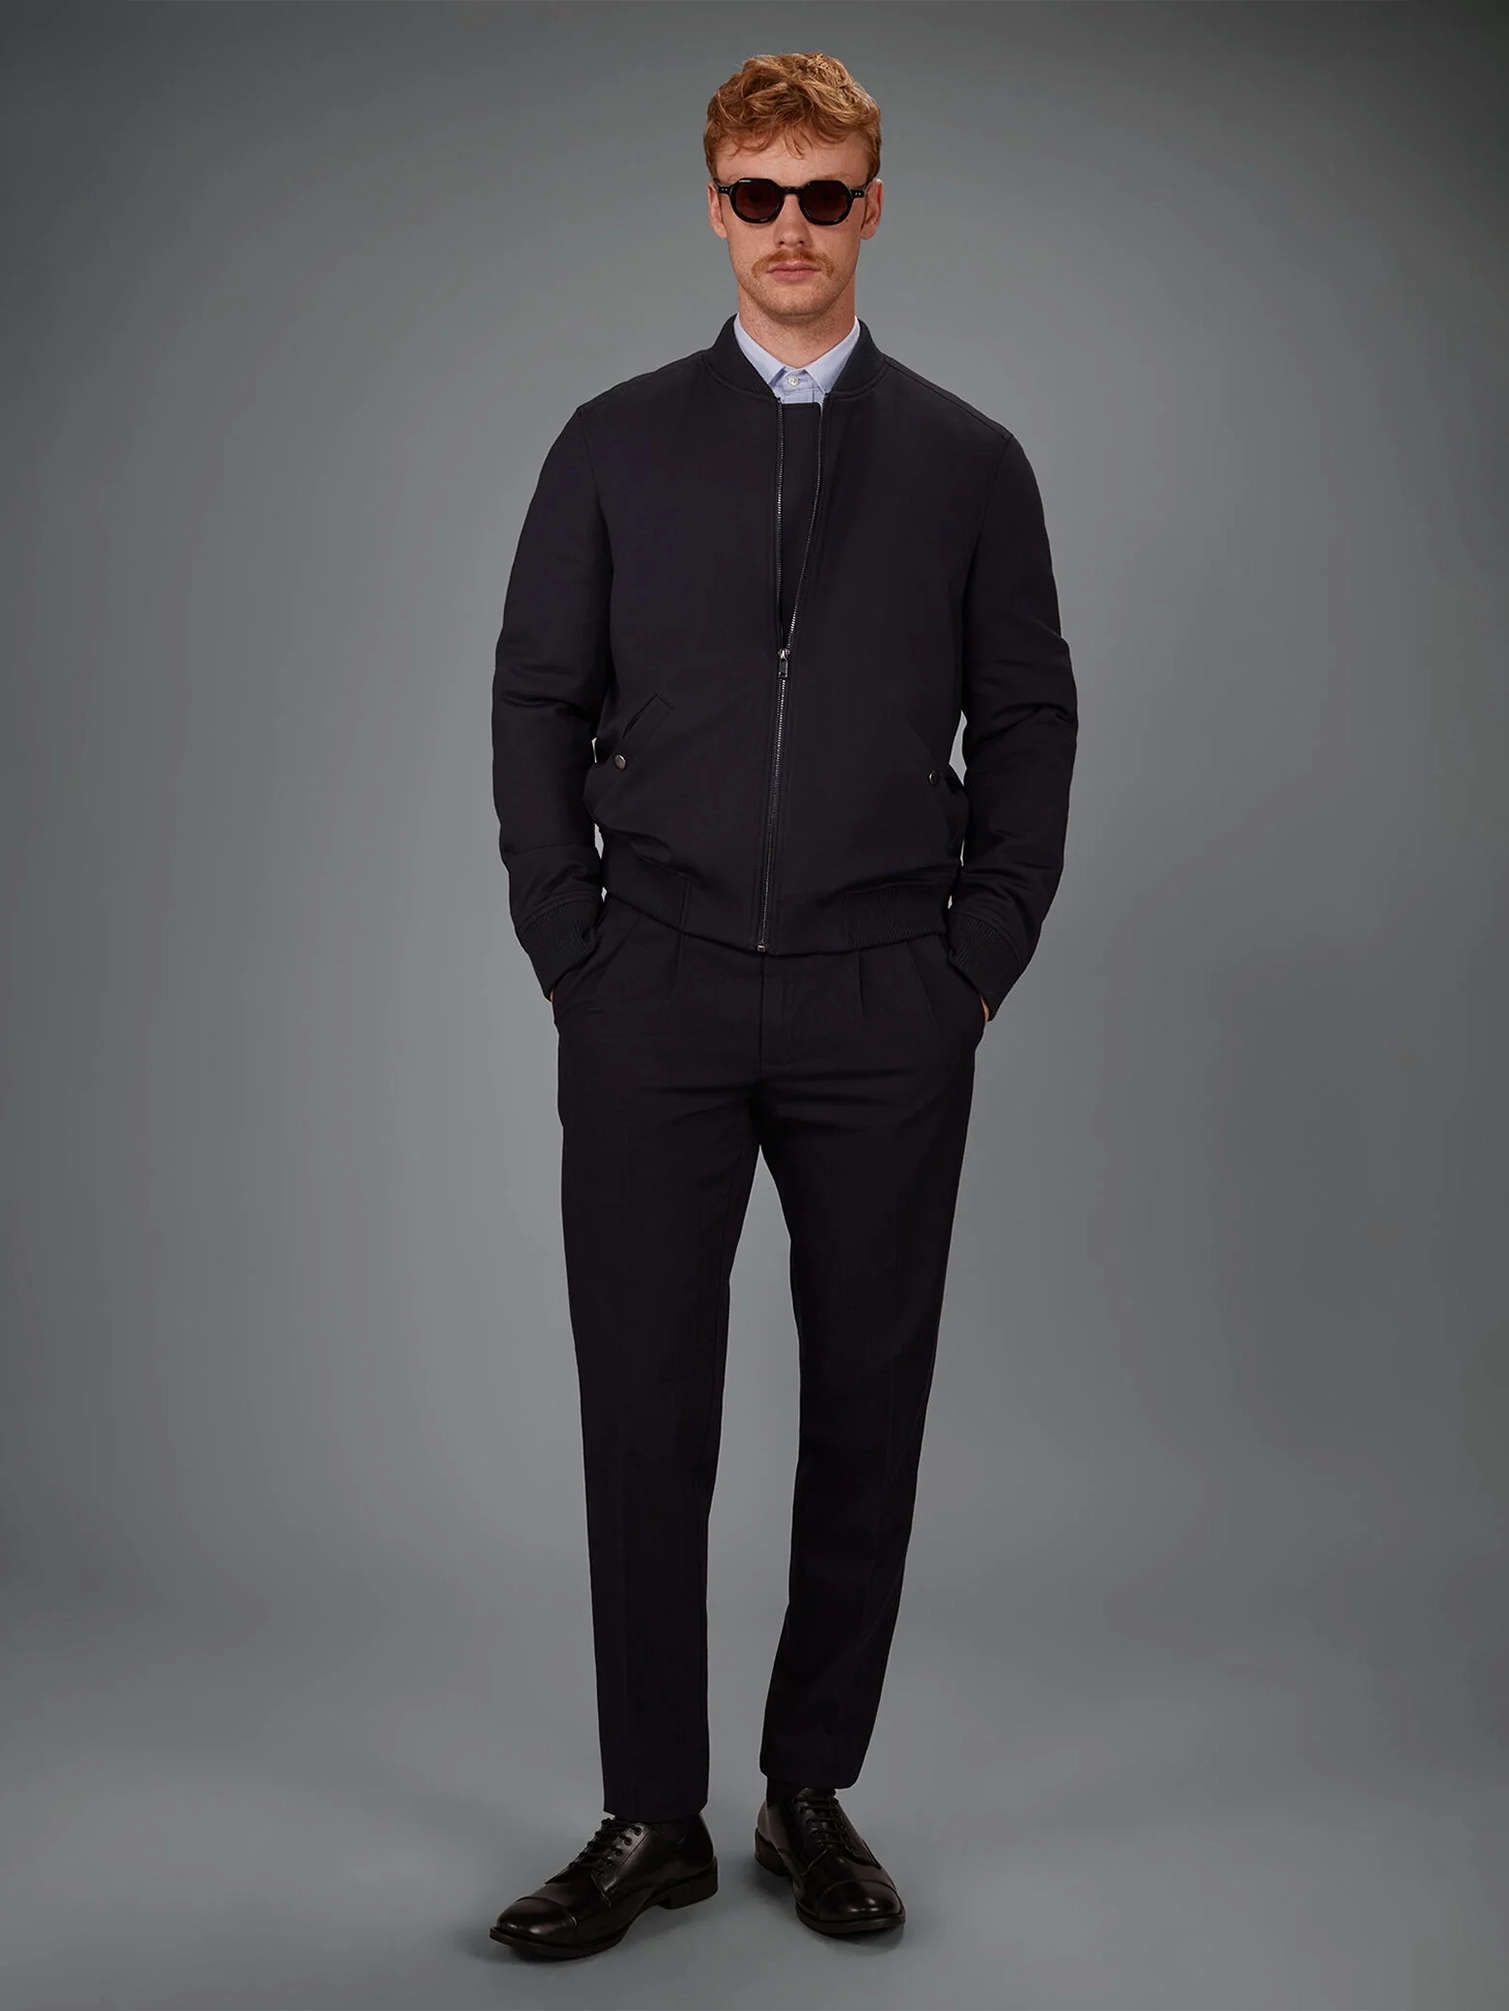
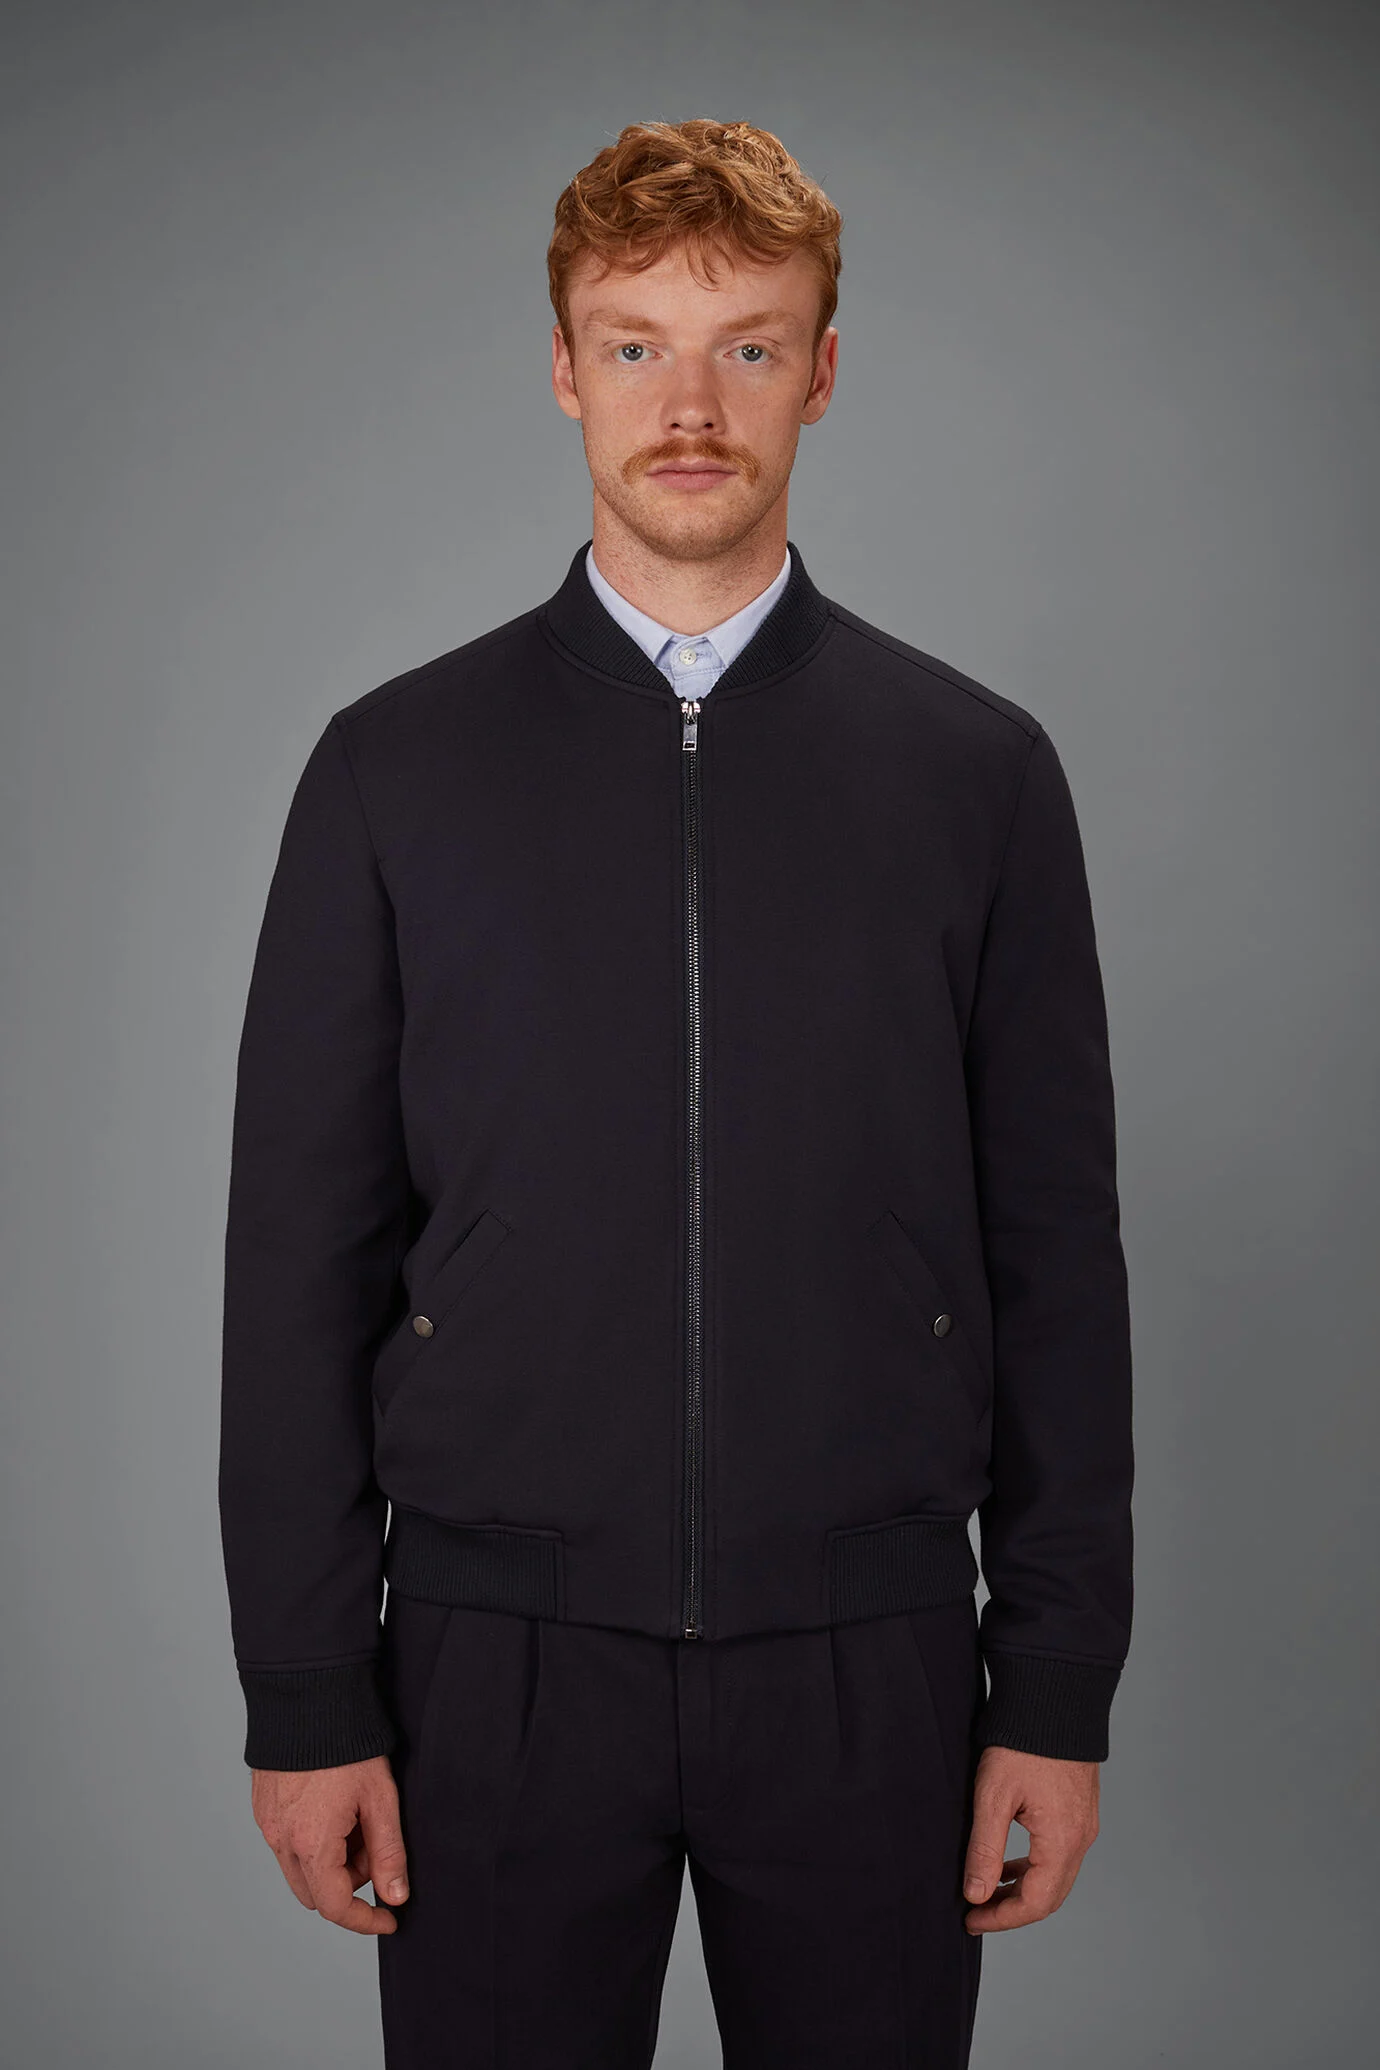
feat(vetrina): mappatura finale immagini bomber (Scegliere, Capo, Still-life)

diff --git a/vetrina.html b/vetrina.html
@@ -39,7 +39,7 @@
     <!-- 3. SCEGLIERE -->
     <section class="vt-inner">
       <div class="vt-chapter">
-        <figure class="vt-chapter-img"><img src="images/capsule-impermeabile-pioggia.webp" alt="Uomo in impermeabile beige cammina sotto la pioggia con un ombrello" width="1080" height="1349" loading="lazy"></figure>
+        <figure class="vt-chapter-img"><img src="images/bomber-capsule3.webp" alt="Uomo in impermeabile beige cammina sotto la pioggia con un ombrello" width="1080" height="1349" loading="lazy"></figure>
         <div class="vt-chapter-text">
           <h2>Scegliere</h2>
           <p>Non serve sapere dove si va, la scelta è già fatta. Il bomber blu scuro sopra la maglia, le mani nelle tasche, il passo che non rallenta. Nessun capo è lì per caso: ognuno fa il suo lavoro, e insieme si vedono poco. È questo che chiamiamo vestire bene.</p>
@@ -51,7 +51,7 @@
     <section class="vt-inner" id="capi">
       <div class="vt-feature">
         <div class="vt-feature-img">
-          <img src="images/3.webp" alt="Impermeabile doppiopetto" loading="lazy">
+          <img src="images/bomber-capsule1.webp" alt="Impermeabile doppiopetto" loading="lazy">
         </div>
         <div class="vt-feature-text">
           <h2>Giubbotto bomber in jersey comfort fit</h2>
@@ -59,7 +59,7 @@
           <p class="vt-feature-desc">Il capo da cui parte la Capsule. Un bomber in jersey laminato, che dà struttura senza perdere morbidezza: vestibilità comoda, interno foderato, zip frontale e bordi in maglia a coste. I dettagli metallici lucidi e le tasche a filetto lo tengono pulito. Da portare aperto sulla maglia o chiuso quando l’aria si fa fresca, per la città di tutti i giorni e per le serate che si allungano.</p>
           <a class="vt-btn" href="prodotto2.html">Scopri il capo</a></div>
         <figure class="vt-feature-still">
-          <img src="images/capsule-impermeabile-dettaglio.webp" alt="Dettaglio dell'Impermeabile doppiopetto" loading="lazy">
+          <img src="images/bomber-capsule-dettaglio.webp" alt="Dettaglio dell'Impermeabile doppiopetto" loading="lazy">
         </figure>
       </div>
     </section>
